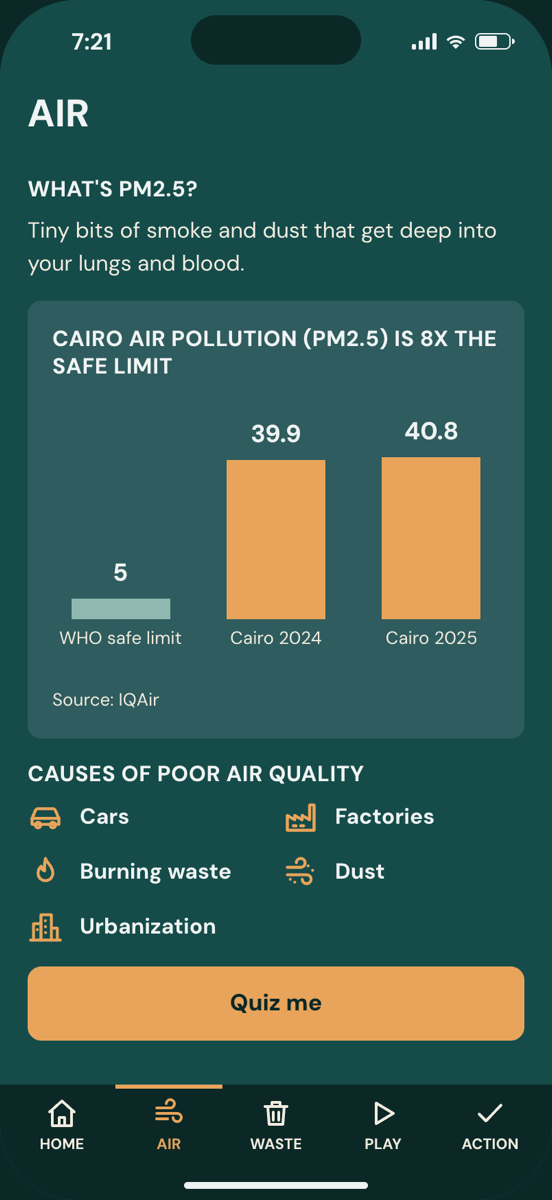
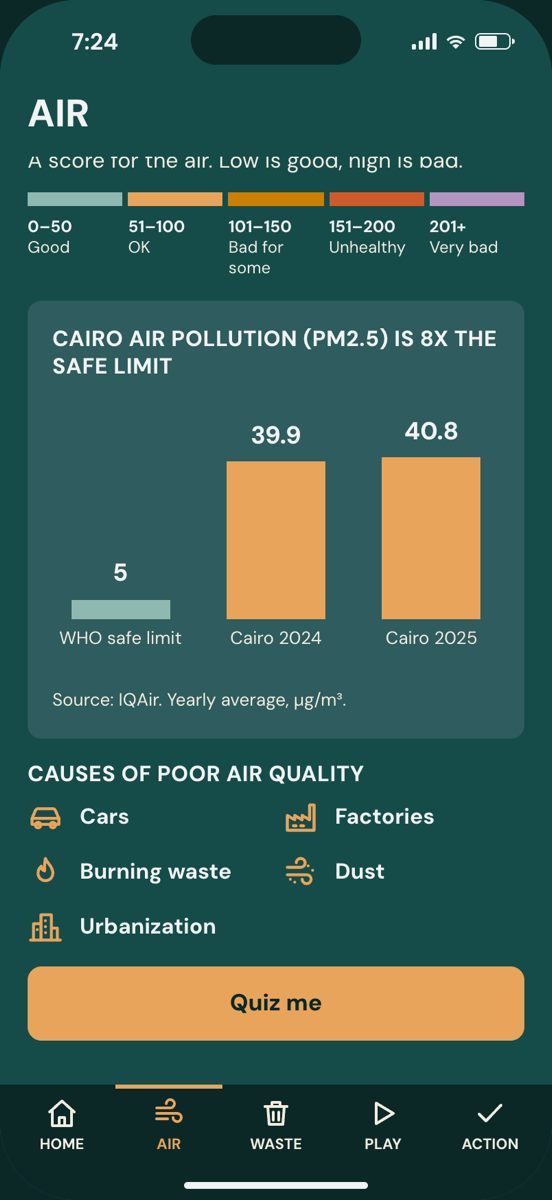
Air: bring back the PM2.5 reading (µg/m³) and the AQI colour scale
- Live card shows the PM2.5 reading with its unit again, e.g.
  "PM2.5 32.5 µg/m³"
- "What's AQI?" with the five-colour scale is back
- Chart note shows the unit again: "Yearly average, µg/m³"

diff --git a/public/index.html b/public/index.html
@@ -214,7 +214,7 @@
     </section>
 
     <!-- ================================================================
-         SCREEN: AIR — live AQI, what PM2.5 is, chart, causes (tab)
+         SCREEN: AIR — live AQI, what PM2.5 and AQI are, chart, causes (tab)
          ================================================================ -->
     <section class="screen" id="screen-air" data-title="Air" data-tab="air" aria-labelledby="title-air" hidden>
       <header class="screen-header">
@@ -230,7 +230,10 @@
           </div>
           <div class="aqi-main">
             <span class="aqi-num" id="aqiNum">--</span>
-            <p class="aqi-level" id="aqiLevel">Loading…</p>
+            <div>
+              <p class="aqi-level" id="aqiLevel">Loading…</p>
+              <p class="aqi-pm" id="aqiPm">PM2.5 -- µg/m³</p>
+            </div>
           </div>
           <p class="aqi-tip" id="aqiTip">Getting today's tip…</p>
         </article>
@@ -241,6 +244,19 @@
           <p>Tiny bits of smoke and dust that get deep into your lungs and blood.</p>
         </section>
 
+        <!-- SECTION: What is AQI? with the colour scale -->
+        <section class="plain">
+          <h2 class="section-title">What's AQI?</h2>
+          <p>A score for the air. Low is good, high is bad.</p>
+          <ol class="aqi-strip" aria-label="AQI colours: 0 to 50 good, 51 to 100 OK, 101 to 150 bad for some, 151 to 200 unhealthy, 201 and up very unhealthy">
+            <li style="--c:var(--teal-light)"><b>0–50</b>Good</li>
+            <li style="--c:var(--accent)"><b>51–100</b>OK</li>
+            <li style="--c:var(--orange-dark)"><b>101–150</b>Bad for some</li>
+            <li style="--c:var(--red)"><b>151–200</b>Unhealthy</li>
+            <li style="--c:var(--purple)"><b>201+</b>Very bad</li>
+          </ol>
+        </section>
+
         <!-- CHART: PM2.5 bar chart like my slide (WHO limit vs Cairo 2024 and 2025) -->
         <article class="card chart-card">
           <h2 class="section-title">Cairo air pollution (PM2.5) is 8x the safe limit</h2>
@@ -249,7 +265,7 @@
             <div class="bar-col"><span class="bar-val">39.9</span><span class="bar" style="--h:39.9;--c:var(--accent)"></span><span class="bar-label">Cairo 2024</span></div>
             <div class="bar-col"><span class="bar-val">40.8</span><span class="bar" style="--h:40.8;--c:var(--accent)"></span><span class="bar-label">Cairo 2025</span></div>
           </div>
-          <p class="chart-source">Source: IQAir</p>
+          <p class="chart-source">Source: IQAir. Yearly average, µg/m³.</p>
         </article>
 
         <!-- SECTION: Causes, an icon with a label for each (like my Causes slide) -->

diff --git a/public/js/air.js b/public/js/air.js
@@ -34,6 +34,7 @@ var Air = (function () {
     $('aqiNum').textContent = aqi;
     $('aqiNum').setAttribute('aria-label', 'AQI ' + aqi);
     $('aqiLevel').textContent = level.name;
+    $('aqiPm').textContent = 'PM2.5 ' + result.pm25.toFixed(1) + ' µg/m³';
     $('aqiTip').textContent = level.tip;
     $('homeAqi').textContent = 'AQI ' + aqi;
     $('homeAqi').style.background = level.color;
@@ -41,7 +42,8 @@ var Air = (function () {
 
   function renderError() {
     $('aqiNum').textContent = '--';
-    $('aqiLevel').textContent = 'No data. Check your internet.';
+    $('aqiLevel').textContent = 'No data';
+    $('aqiPm').textContent = 'Check your internet';
     $('aqiTip').textContent = "Take the metro and don't burn trash.";
     $('homeAqi').textContent = 'AQI --';
   }

diff --git a/public/css/styles.css b/public/css/styles.css
@@ -229,7 +229,13 @@ a { color: var(--accent); }
 .aqi-main { display: flex; align-items: center; gap: 16px; }
 .aqi-num { font-size: 60px; font-weight: 800; line-height: 1; min-width: 86px; color: var(--aqi); }
 .aqi-level { font-size: 22px; font-weight: 800; text-transform: uppercase; }
+.aqi-pm { color: var(--cream); font-size: 15px; }
 .aqi-tip { font-weight: 700; }
+
+/* AQI colour scale */
+.aqi-strip { list-style: none; display: grid; grid-template-columns: repeat(5, 1fr); gap: 4px; }
+.aqi-strip li { font-size: 12px; line-height: 1.25; color: var(--cream); padding-top: 8px; border-top: 10px solid var(--c); }
+.aqi-strip b { display: block; color: var(--text); }
 
 
 /* PM2.5 bar chart (like my slide) */

diff --git a/public/sw.js b/public/sw.js
@@ -6,7 +6,7 @@
    - /api and Open-Meteo: never cached here (the app handles offline itself).
    Change VERSION when you change the app so old caches are deleted.
    ========================================================================== */
-const VERSION = 'mcca-v13';
+const VERSION = 'mcca-v14';
 const SHELL = [
   './',
   'index.html',

diff --git a/README.md b/README.md
@@ -32,7 +32,7 @@ Evidence for my teacher (every extra skill, what I researched, and where it is i
 | Splash | App name, logo, Start button |
 | Name | First time only: first name (A–Z, max 15) + last name initial (1 letter), shown as "Mahmoud E." Bad words blocked. |
 | Home | Hey + my name, "everyone together" totals from the sheet, buttons |
-| Air | Live Cairo AQI with a tip, what PM2.5 is in one line, the PM2.5 chart, causes |
+| Air | Live Cairo AQI and PM2.5 (µg/m³) with a tip, what PM2.5 and AQI are with the colour scale, the PM2.5 chart, causes |
 | Waste | How much waste, where it goes, recycling and how to fix it, as short charts and lists |
 | Play | Choose Quiz or Game |
 | Quiz | 10 random questions, shuffled answers, right/wrong with the fact, best score |
